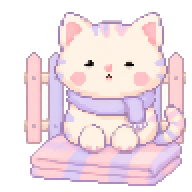
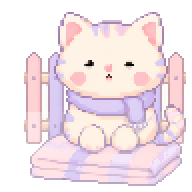
destiny-number: 4·6·22번 고양이 소품 채도 완화(검수 반영, v6)

diff --git a/destiny-number/index.html b/destiny-number/index.html
@@ -61,7 +61,7 @@
           <div class="scene" aria-hidden="true">
             <img class="scene-art" src="assets/pixel-scene.webp" width="344" height="112" alt="">
             <span class="hud"><i class="hud-heart"></i> 2027</span>
-            <img class="scene-cat" src="assets/cats/cat-hero.png?v=5" width="192" height="192" alt="">
+            <img class="scene-cat" src="assets/cats/cat-hero.png?v=6" width="192" height="192" alt="">
           </div>
 
           <div class="hero-copy">
@@ -125,7 +125,7 @@
       <div class="num-row">
         <span class="num-big" id="num-big"></span>
         <span class="stamp" id="stamp" hidden></span>
-        <img class="num-cat" id="num-cat" src="assets/cats/cat-hero.png?v=5" width="192" height="192" alt="">
+        <img class="num-cat" id="num-cat" src="assets/cats/cat-hero.png?v=6" width="192" height="192" alt="">
       </div>
       <h2 class="nick" id="num-nick"></h2>
       <p class="num-tag" id="num-tag"></p>

diff --git a/destiny-number/app.js b/destiny-number/app.js
@@ -108,7 +108,7 @@
     $('num-tag').textContent = L.tag;
 
     var catEl = $('num-cat');
-    catEl.src = 'assets/cats/cat-' + r.lp + '.png?v=5';
+    catEl.src = 'assets/cats/cat-' + r.lp + '.png?v=6';
     catEl.alt = cat.name + ' 도트 고양이';
     $('cat-name').textContent = cat.name;
     $('cat-line').textContent = cat.line;
@@ -447,7 +447,7 @@
     var key = 'c' + n;
     if (!catCache[key]) {
       var im = new Image();
-      im.src = 'assets/cats/cat-' + n + '.png?v=5';
+      im.src = 'assets/cats/cat-' + n + '.png?v=6';
       catCache[key] = im;
     }
     var img = catCache[key];
